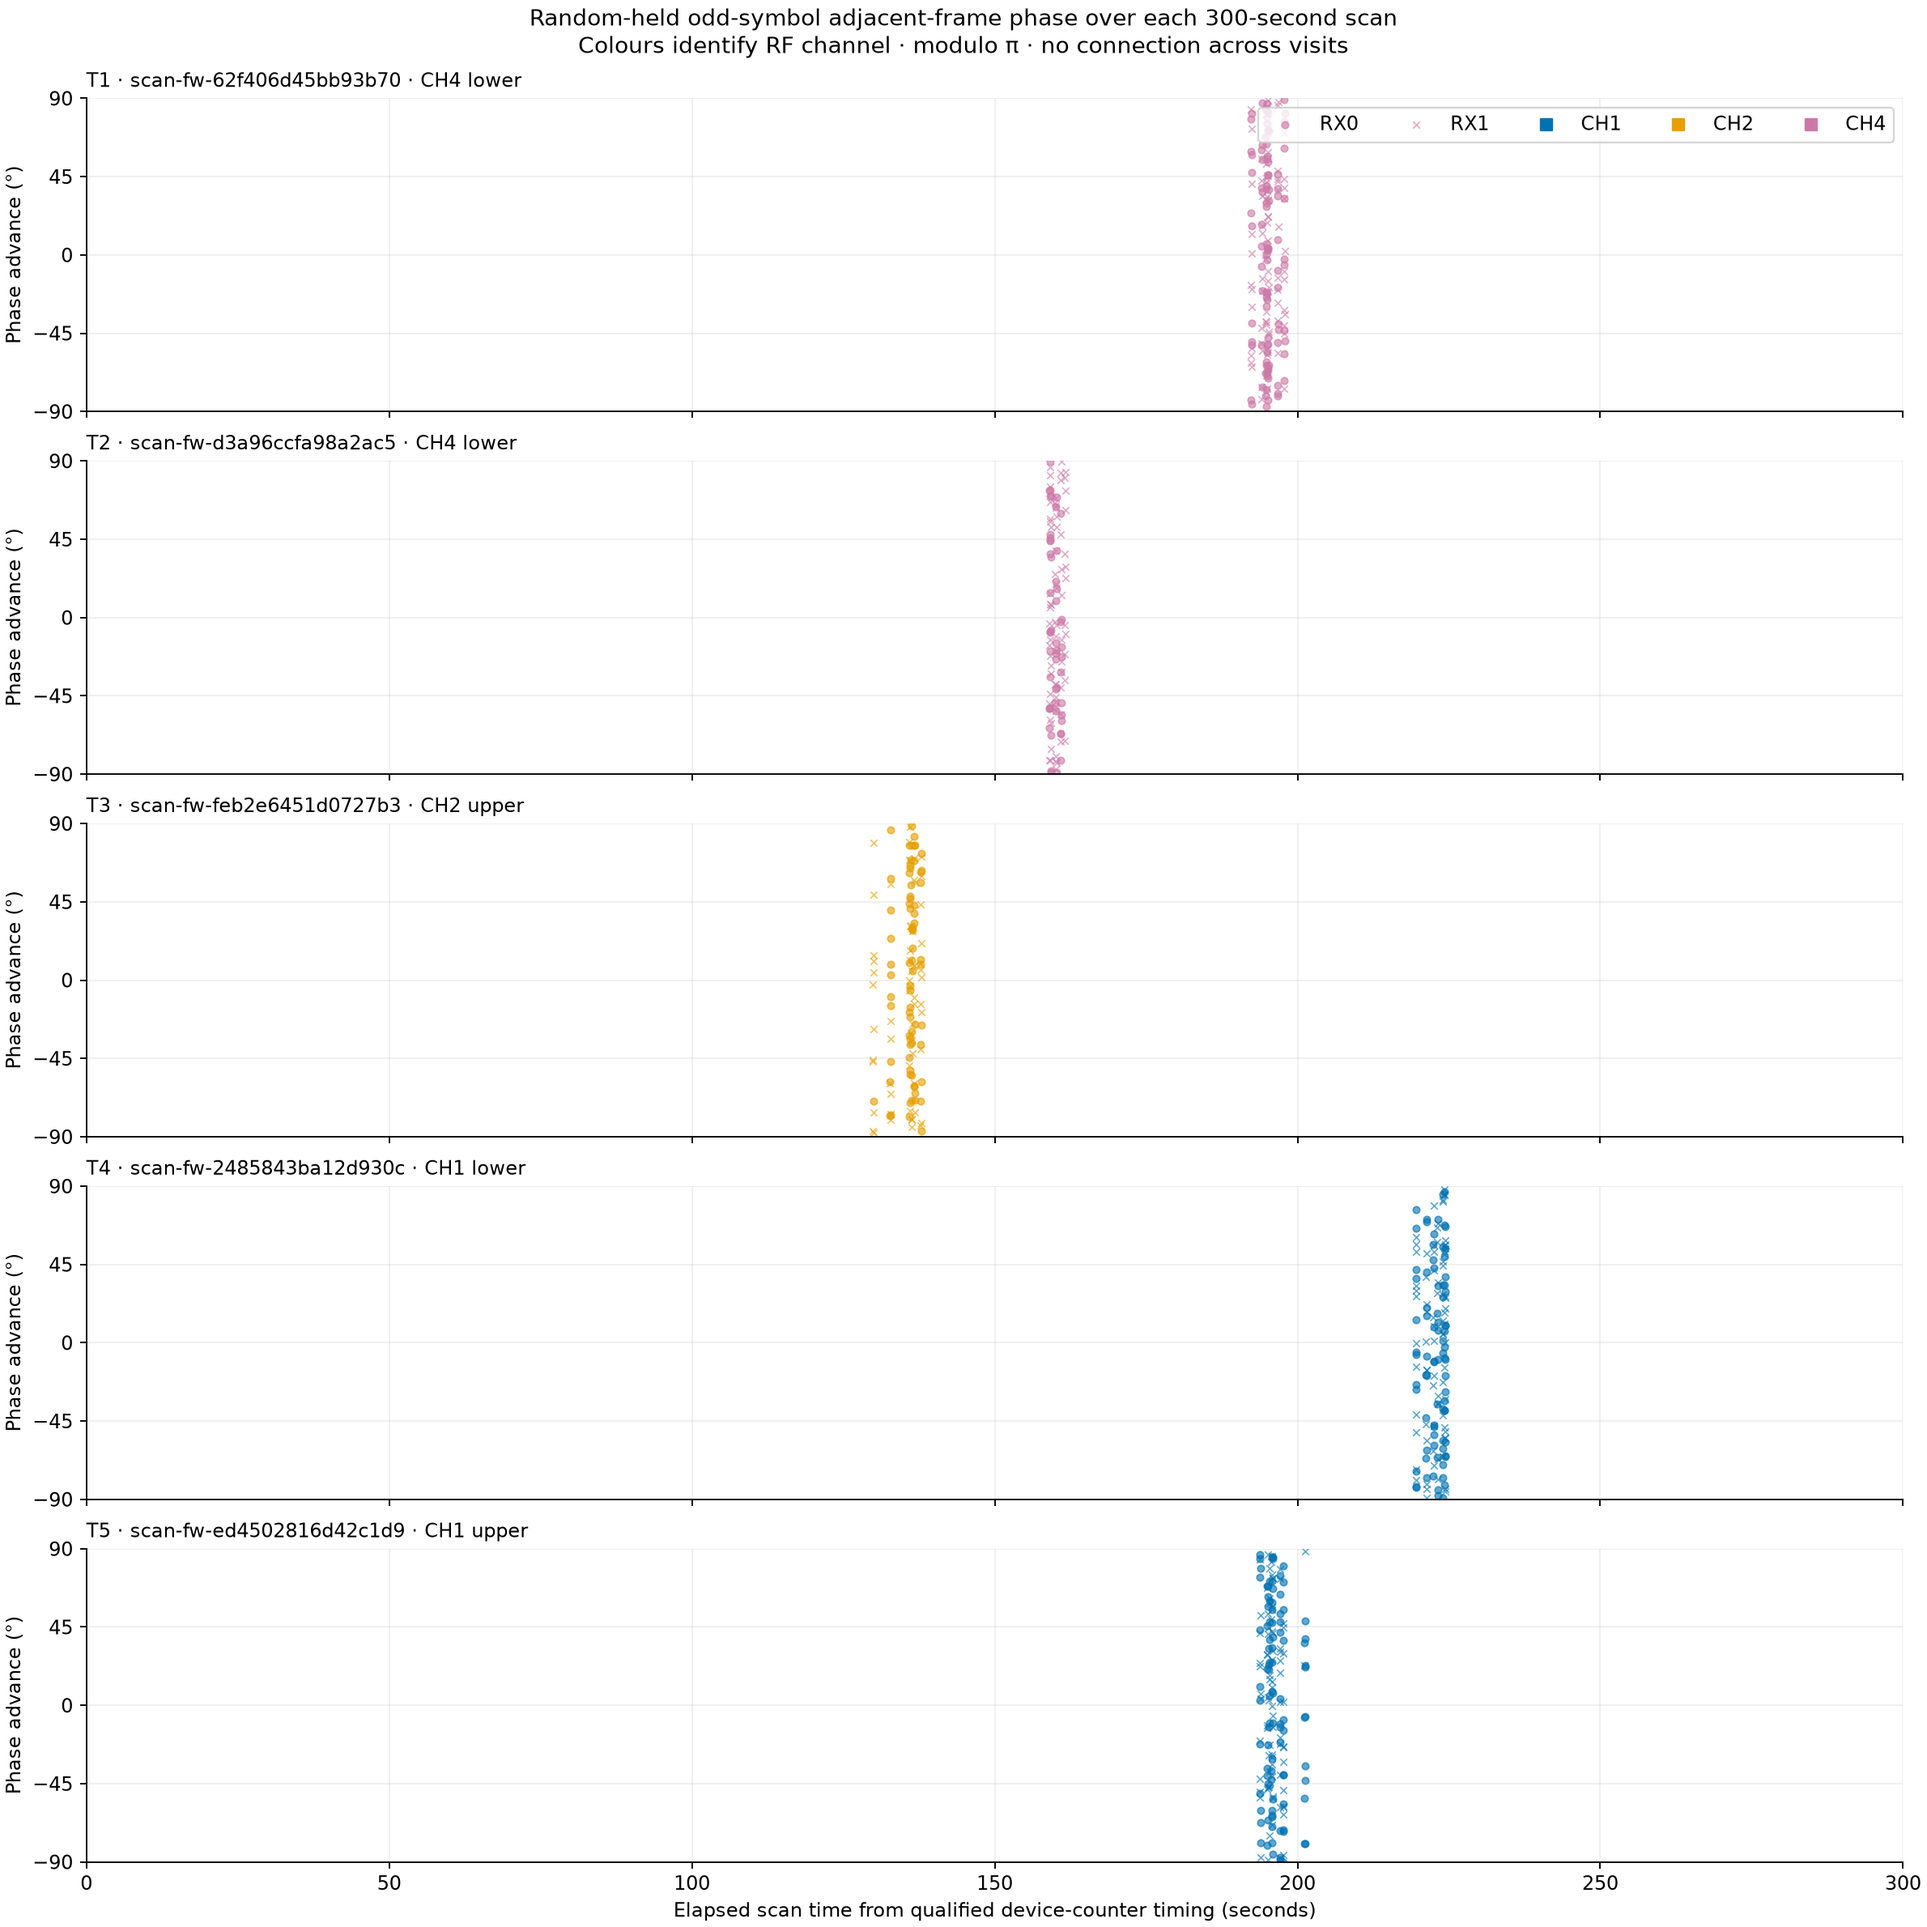
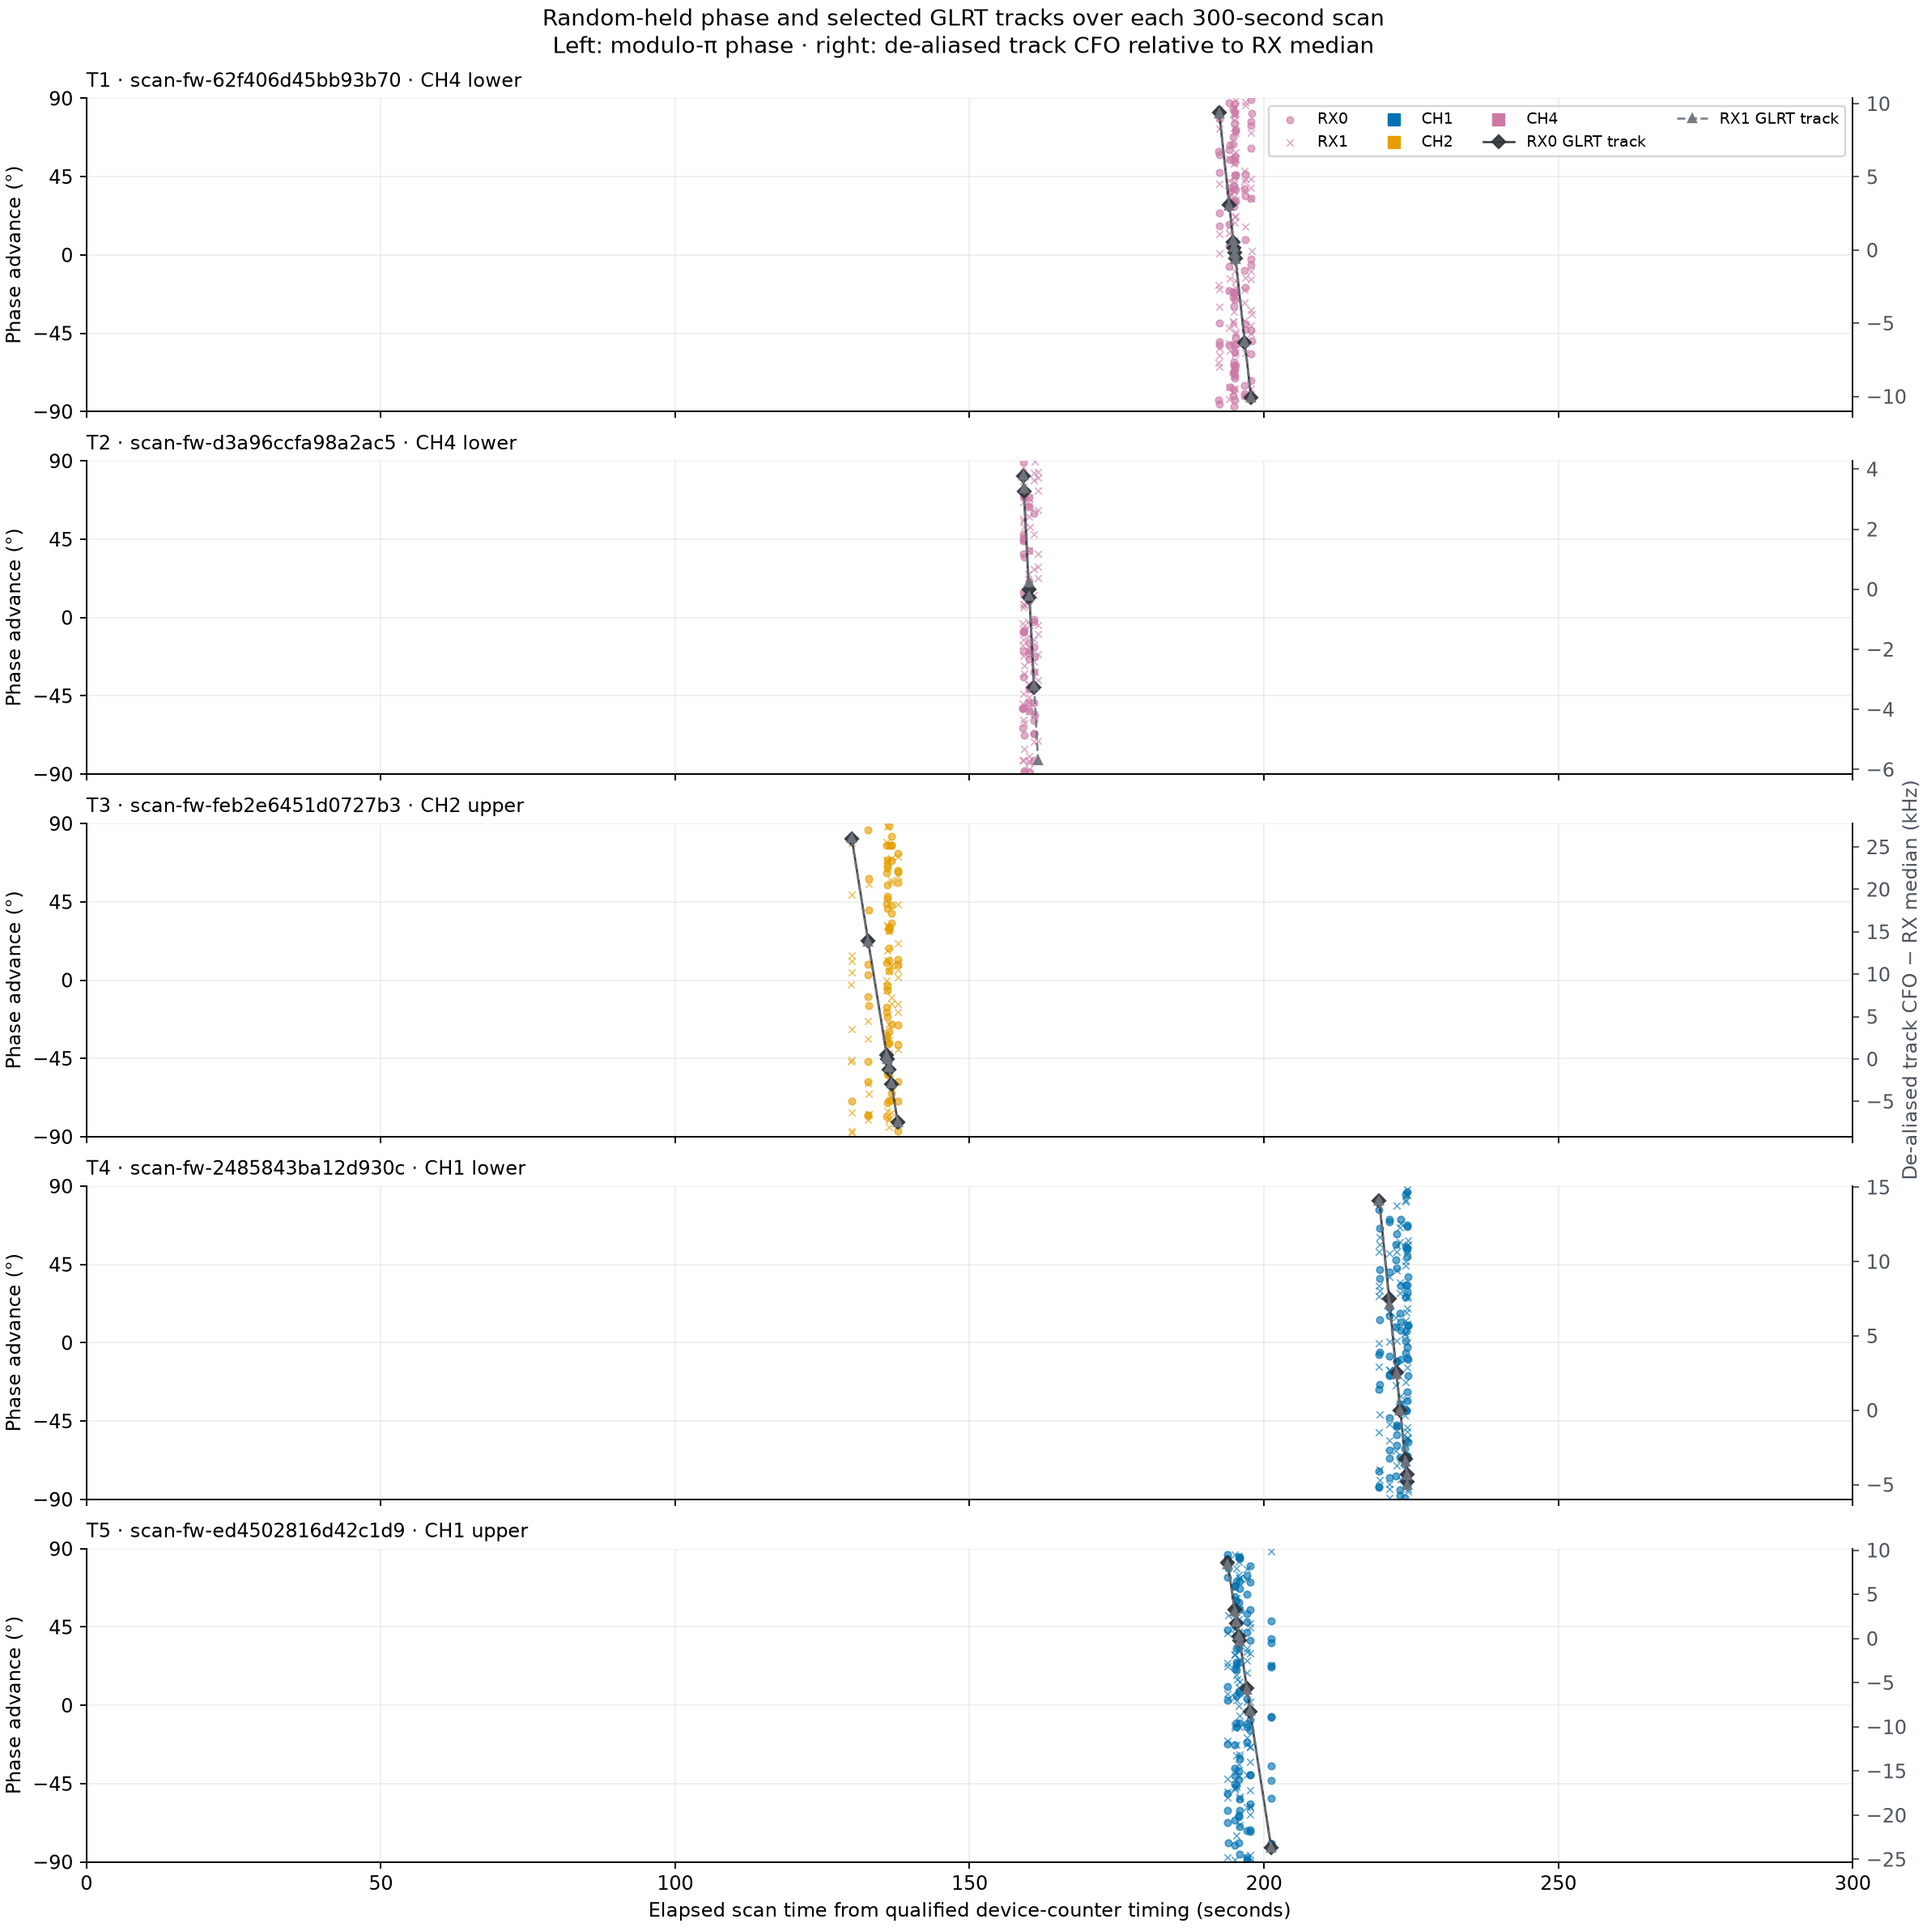
Overlay selected tracks on phase timeline

diff --git a/tools/research/evaluate_late_track_candidate_phase.py b/tools/research/evaluate_late_track_candidate_phase.py
@@ -206,6 +206,42 @@ def glrt_timeline_rows(source: Any) -> list[dict[str, Any]]:
     return rows
 
 
+def selected_track_points(rows: list[dict[str, Any]]) -> list[dict[str, Any]]:
+    """Collapse interval evidence to one measured GLRT track point per visit/RX."""
+    grouped: dict[tuple[str, int, int], list[dict[str, Any]]] = {}
+    for row in rows:
+        key = (row["session_id"], row["visit_index"], row["receiver_id"])
+        grouped.setdefault(key, []).append(row)
+    points = []
+    for (session_id, visit_index, receiver_id), members in grouped.items():
+        cfo = {
+            float(row["source_tracking_dealiased_cfo_hz"]) for row in members
+        }
+        channels = {int(row["channel"]) for row in members}
+        if len(cfo) != 1 or len(channels) != 1:
+            raise ValueError("one visit/RX track point has inconsistent source evidence")
+        points.append(
+            {
+                "session_id": session_id,
+                "visit_index": visit_index,
+                "receiver_id": receiver_id,
+                "channel": channels.pop(),
+                "scan_elapsed_s": float(
+                    np.mean([row["scan_elapsed_s"] for row in members])
+                ),
+                "tracking_cfo_hz": cfo.pop(),
+            }
+        )
+    return sorted(
+        points,
+        key=lambda row: (
+            row["session_id"],
+            row["receiver_id"],
+            row["scan_elapsed_s"],
+        ),
+    )
+
+
 def frame_opportunities(sample_count: int, rate: int, epoch: int) -> list[tuple[int, int]]:
     """Four adjacent complete frames nearest each phase-blind 20 ms group center."""
     content = round(302 * rate * OFDM_SYMBOL_DURATION_S)
@@ -665,6 +701,7 @@ def run(
             )
             tracklets = {row.tracklet_id: row for row in trajectory.tracklets}
             track_points = []
+            track_dealiased_cfo = []
             reviews = []
             for _receiver_id, key in ((0, "rx0_tracklet_id"), (1, "rx1_tracklet_id")):
                 tracklet_id = str(chosen[key])
@@ -674,6 +711,14 @@ def run(
                     for point in tracklet.points
                 }
                 track_points.append(points)
+                track_dealiased_cfo.append(
+                    {
+                        by_candidate[point.candidate_id].visit_index: (
+                            point.normalized_dealiased_cfo_hz
+                        )
+                        for point in tracklet.points
+                    }
+                )
                 reviews.append(_review(manifest, tracklet_id))
             visit_indices = tuple(map(int, chosen["phase_selected_visit_indices"]))
             training_visits, held_visits = seeded_group_split(
@@ -743,6 +788,9 @@ def run(
                                     "source_probe_index": point.probe_index,
                                     "source_candidate_rank": point.candidate_rank,
                                     "source_tracking_cfo_hz": point.measured_cfo_hz,
+                                    "source_tracking_dealiased_cfo_hz": (
+                                        track_dealiased_cfo[receiver_id][visit_index]
+                                    ),
                                 }
                             )
                         receiver_rows[receiver_id].extend(rows)
@@ -1217,7 +1265,13 @@ def render(
 
     fig, axes = plt.subplots(5, 1, figsize=(14, 14), sharex=True, constrained_layout=True)
     receiver_markers = {0: "o", 1: "x"}
+    track_markers = {0: "D", 1: "^"}
+    track_styles = {0: "-", 1: "--"}
+    track_points = selected_track_points(evidence_rows)
+    right_axes = []
     for track, axis in zip(document["tracks"], axes, strict=True):
+        track_axis = axis.twinx()
+        right_axes.append(track_axis)
         rows = [
             row for row in evidence_rows if row["session_id"] == track["session_id"]
         ]
@@ -1237,6 +1291,31 @@ def render(
                 rasterized=True,
                 label=f"RX{receiver_id}" if track["rank"] == 1 else None,
             )
+            selected_track = [
+                row
+                for row in track_points
+                if row["session_id"] == track["session_id"]
+                and row["receiver_id"] == receiver_id
+            ]
+            cfo_center_hz = float(
+                np.median([row["tracking_cfo_hz"] for row in selected_track])
+            )
+            track_axis.plot(
+                [row["scan_elapsed_s"] for row in selected_track],
+                [
+                    (row["tracking_cfo_hz"] - cfo_center_hz) / 1000
+                    for row in selected_track
+                ],
+                marker=track_markers[receiver_id],
+                linestyle=track_styles[receiver_id],
+                color="#30343b" if receiver_id == 0 else "#70757d",
+                linewidth=1.15,
+                markersize=4.5,
+                alpha=0.9,
+                label=(
+                    f"RX{receiver_id} GLRT track" if track["rank"] == 1 else None
+                ),
+            )
         axis.set_ylim(-90, 90)
         axis.set_yticks([-90, -45, 0, 45, 90])
         axis.set_ylabel("Phase advance (°)")
@@ -1247,6 +1326,12 @@ def render(
         )
         axis.grid(alpha=0.2)
         axis.spines[["top", "right"]].set_visible(False)
+        if track["rank"] == 3:
+            track_axis.set_ylabel(
+                "De-aliased track CFO − RX median (kHz)", color="#4f5660"
+            )
+        track_axis.tick_params(axis="y", colors="#4f5660")
+        track_axis.spines["top"].set_visible(False)
     for channel in sorted({track["channel"] for track in document["tracks"]}):
         axes[0].scatter(
             [],
@@ -1255,12 +1340,20 @@ def render(
             color=CHANNEL_COLOURS[channel],
             label=f"CH{channel}",
         )
-    axes[0].legend(loc="upper right", ncol=5)
+    left_handles, left_labels = axes[0].get_legend_handles_labels()
+    right_handles, right_labels = right_axes[0].get_legend_handles_labels()
+    axes[0].legend(
+        left_handles + right_handles,
+        left_labels + right_labels,
+        loc="upper right",
+        ncol=4,
+        fontsize=8,
+    )
     axes[-1].set_xlim(0, 300)
     axes[-1].set_xlabel("Elapsed scan time from qualified device-counter timing (seconds)")
     fig.suptitle(
-        "Random-held odd-symbol adjacent-frame phase over each 300-second scan\n"
-        "Colours identify RF channel · modulo π · no connection across visits"
+        "Random-held phase and selected GLRT tracks over each 300-second scan\n"
+        "Left: modulo-π phase · right: de-aliased track CFO relative to RX median"
     )
     fig.savefig(output / "phase-vs-time-300s.png", dpi=170)
     plt.close(fig)

diff --git a/tests/tools/test_evaluate_late_track_candidate_phase.py b/tests/tools/test_evaluate_late_track_candidate_phase.py
@@ -9,6 +9,7 @@ from tools.research.evaluate_late_track_candidate_phase import (
     glrt_timeline_rows,
     joint_receiver_result,
     response_metrics,
+    selected_track_points,
     wrap_pi,
 )
 
@@ -148,5 +149,30 @@ def test_glrt_timeline_uses_device_counter_scan_clock() -> None:
             "fractional_margin": 0.12,
             "fractional_tracking_cfo_hz": 1250.0,
             "passed_fractional_margin_gate": True,
+        }
+    ]
+
+
+def test_selected_track_points_collapses_phase_intervals() -> None:
+    rows = [
+        {
+            "session_id": "scan-test",
+            "visit_index": 4,
+            "receiver_id": 0,
+            "channel": 2,
+            "scan_elapsed_s": time,
+            "source_tracking_dealiased_cfo_hz": 12_500.0,
+        }
+        for time in (10.02, 10.08)
+    ]
+
+    assert selected_track_points(rows) == [
+        {
+            "session_id": "scan-test",
+            "visit_index": 4,
+            "receiver_id": 0,
+            "channel": 2,
+            "scan_elapsed_s": pytest.approx(10.05),
+            "tracking_cfo_hz": 12_500.0,
         }
     ]

diff --git a/reports/2026_09_24_phase_satellite_association.md b/reports/2026_09_24_phase_satellite_association.md
@@ -52,13 +52,23 @@ means of \(4\cos(2r)\); they are not probabilities or p-values.
 The phase timeline places all 793 random-held odd-symbol adjacent-frame
 measurements on each capture's qualified device-counter clock. Colour denotes
 RF channel using the established scan palette; circles are RX0 and crosses are
-RX1. Phase is wrapped modulo π to ±90°. The plotted support is limited to the
-five frozen tracks and lies between 129.9 and 224.4 seconds depending on the
-scan. Blank intervals mean that the selected track has no retained phase
-measurement. They are not zero phase, and points are never connected or
-unwrapped across visits.
+RX1. Phase is wrapped modulo π to ±90° on the left axis. The right axis overlays
+the reconstructed, de-aliased fractional-GLRT CFO for the exact RX0 and RX1
+tracklets, after subtracting each receiver track's median CFO so their shapes
+share a readable scale. Diamonds/solid lines denote RX0 and triangles/dashed
+lines denote RX1. Each CFO marker is one visit. Connecting lines only identify
+membership and order within the selected track; they do not represent
+measurements during retune gaps.
 
-![Random-held phase over each 300-second scan](figures/2026_09_24_phase_satellite_association/phase-vs-time-300s.png)
+The plotted phase support is limited to the five frozen tracks and lies between
+129.9 and 224.4 seconds depending on the scan. Blank intervals mean that the
+selected track has no retained phase measurement. They are not zero phase, and
+phase points are never connected or unwrapped across visits. The phase and CFO
+axes have different units and scales; their vertical proximity has no meaning.
+The right-axis curves are measured acquisition tracks, not satellite Doppler
+predictions or phase-derived frequencies.
+
+![Random-held phase and selected GLRT tracks over each 300-second scan](figures/2026_09_24_phase_satellite_association/phase-vs-time-300s.png)
 
 The companion GLRT plot uses the complete published fractional-GLRT inventory
 for the same five captures: 110,879 candidate records, of which 10,572 pass the

diff --git a/reports/figures/2026_09_24_phase_satellite_association/README.md b/reports/figures/2026_09_24_phase_satellite_association/README.md
@@ -5,8 +5,10 @@
 - `phase-advance-evidence.json.gz`: extracted adjacent-frame pilot phase rows.
 - `glrt-timeline.json.gz`: full fractional-GLRT candidate inventory for the five
   300-second scans.
-- `phase-vs-time-300s.png`: selected-track random-held phase over the scan
-  clock, coloured by RF channel.
+- `phase-vs-time-300s.png`: selected-track random-held phase on the left axis
+  and the exact RX0/RX1 reconstructed de-aliased GLRT tracking CFO relative to
+  each receiver median on the right axis, overlaid on the 300-second scan clock
+  and coloured by RF channel.
 - `glrt-vs-time-300s.png`: complete per-receiver GLRT margins over the scan
   clock, with passing candidates coloured by RF channel.
 - `candidate-score-by-track-receiver.png`: receiver-level train and held scores.
